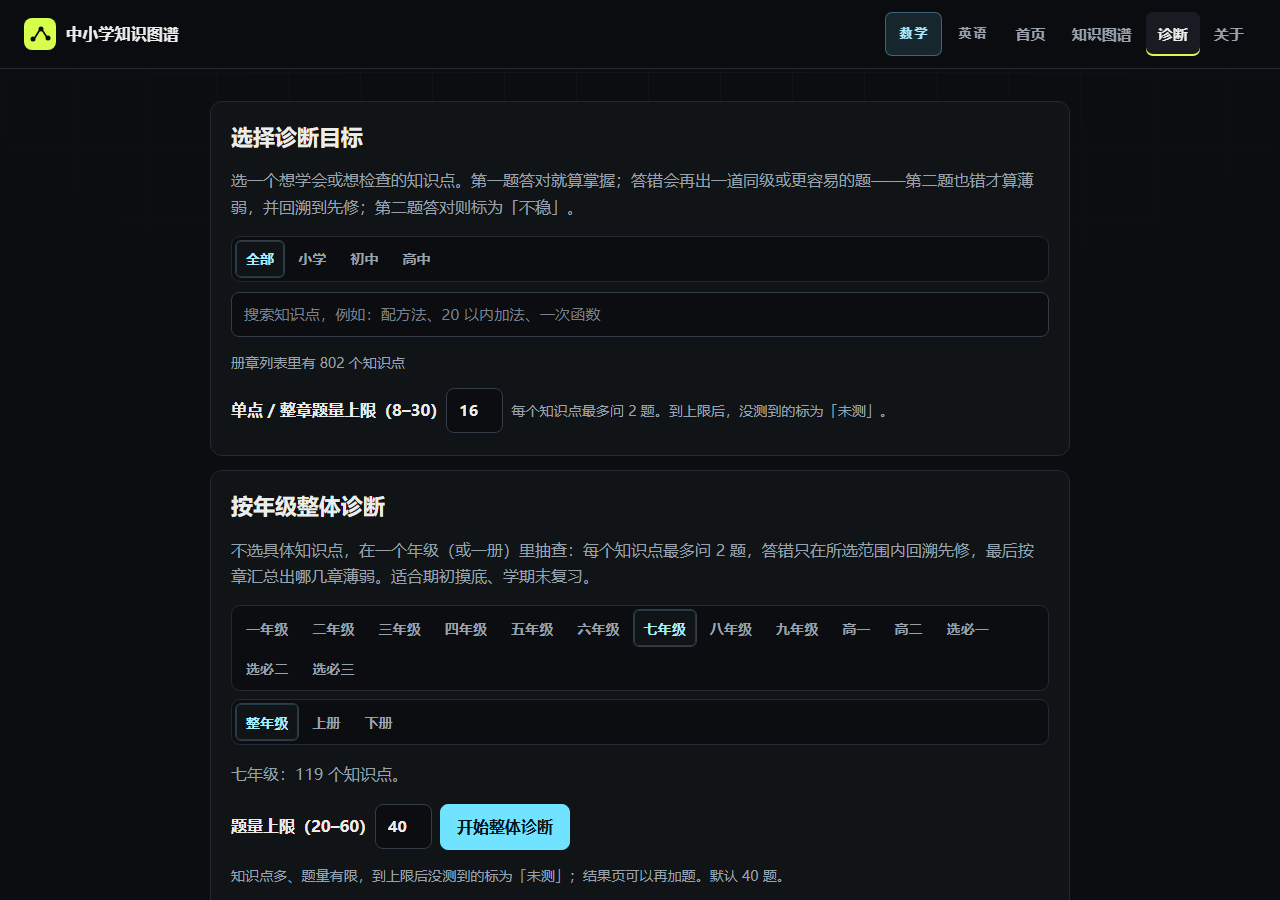
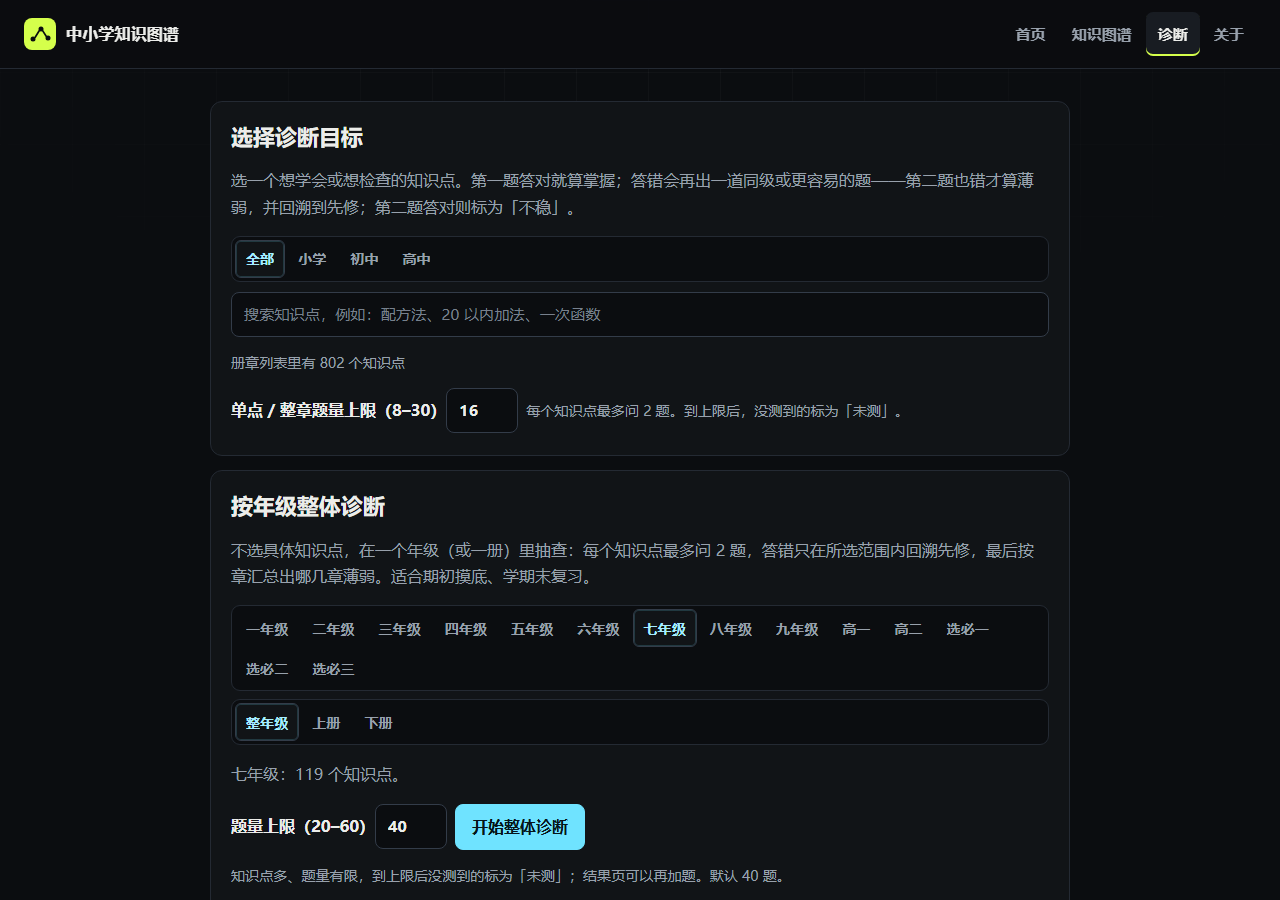
导航改为一级/二级结构，诊断页学段联动，移除页脚
- 导航一级只留 首页 / 知识图谱 / 诊断 / 关于；数学、英语收进「知识图谱」的悬停下拉（也从键盘 focus 展开）
- 诊断页「按年级整体诊断」的年级标签随学段收窄：小学 1–6、初中 7–9、高中 10+（英语为 3–6 / 7–9 / 必修一~选必四）
- 学段切换后原年级不在范围内时回落到该学段第一个年级，并把范围重置为「整年级」
- 关于链接指向本仓库；删除三页页脚（AI 初稿声明与 Issue 入口），内容区获得更多高度
- 移除失去引用的 .site-footer 样式与 explore/diagnose 的页脚布局规则

Changed region(s): [[0.4062, 0.4356, 0.6875, 0.4667], [0.3438, 0.8711, 0.4688, 0.9644], [0.6875, 0.0, 0.7812, 0.0622]]

diff --git a/diagnose/app.js b/diagnose/app.js
@@ -382,10 +382,36 @@
     return gradeSel + (volSel ? volSel : '年级');
   }
 
+  // 「学段」筛选后，整体诊断里可选的年级也要跟着变
+  function gradeOptions() {
+    const primary = (subject === 'english' ? '三四五六' : '一二三四五六').split('').map(function (x) { return [x, x + '年级']; });
+    const junior = '七八九'.split('').map(function (x) { return [x, x + '年级']; });
+    const senior = subject === 'english'
+      ? [['必修一', '必修一'], ['必修二', '必修二'], ['必修三', '必修三'],
+         ['选必一', '选必一'], ['选必二', '选必二'], ['选必三', '选必三'], ['选必四', '选必四']]
+      : [['高一', '高一'], ['高二', '高二'], ['选必一', '选必一'], ['选必二', '选必二'], ['选必三', '选必三']];
+    let out = [];
+    if (!startStage || startStage === 'p') out = out.concat(primary);
+    if (!startStage || startStage === 'j') out = out.concat(junior);
+    if (!startStage || startStage === 'h') out = out.concat(senior);
+    return out;
+  }
+
   function gradeCard() {
     const box = h('div', { class: 'card', id: 'grade-card' });
     const fill = function () {
       while (box.firstChild) box.removeChild(box.firstChild);
+      // 学段变了之后，原来选中的年级可能不在范围内，回落到该学段的第一个年级
+      const options = gradeOptions();
+      const stillValid = options.some(function (o) { return o[0] === gradeSel; });
+      if (!stillValid) {
+        gradeSel = options.length ? options[0][0] : '';
+        volSel = (subject === 'english' && gradeSel === '九') ? '全' : '';
+      }
+      // 年级是「高中」类（高一/高二/必修X/选必X）时，范围只能是整册
+      if (seniorGrade(gradeSel)) volSel = '';
+      else if (subject === 'english' && gradeSel === '九') volSel = '全';
+      else if (volSel === '全') volSel = '';
       const g = E.gradeTargets(D.graph, gradeScope(), subject);
       const tabs = function (label, items, current, set) {
         return h('div', { class: 'stage-tabs', role: 'tablist', 'aria-label': label }, items.map(function (it) {
@@ -409,14 +435,7 @@
       box.append(
         h('h2', { text: '按年级整体诊断' }),
         h('p', { class: 'muted' }, '不选具体知识点，在一个年级（或一册）里抽查：每个知识点最多问 2 题，答错只在所选范围内回溯先修，最后按章汇总出哪几章薄弱。适合期初摸底、学期末复习。'),
-        tabs('年级', subject === 'english'
-          ? '三四五六七八九'.split('').map(function (x) { return [x, x + '年级']; }).concat([
-            ['必修一', '必修一'], ['必修二', '必修二'], ['必修三', '必修三'],
-            ['选必一', '选必一'], ['选必二', '选必二'], ['选必三', '选必三'], ['选必四', '选必四']
-          ])
-          : GRADES.map(function (x) { return [x, x + '年级']; }).concat([
-            ['高一', '高一'], ['高二', '高二'], ['选必一', '选必一'], ['选必二', '选必二'], ['选必三', '选必三']
-          ]), gradeSel, function (v) {
+        tabs('年级', options, gradeSel, function (v) {
           gradeSel = v;
           if (seniorGrade(v)) volSel = '';
           else if (subject === 'english' && v === '九') volSel = '全';

diff --git a/assets/site.css b/assets/site.css
@@ -268,6 +268,42 @@ html.is-leaving body { opacity: 0; transition: opacity 160ms cubic-bezier(0.4, 0
 
 .nav-link:hover { background: var(--bg-muted); color: var(--text); }
 
+/* 「知识图谱」带学科二级菜单：鼠标悬停或键盘聚焦时展开 */
+.nav-item { position: relative; display: inline-flex; align-items: center; }
+.nav-item .nav-menu {
+  position: absolute;
+  top: calc(100% + 6px);
+  left: 50%;
+  transform: translateX(-50%) translateY(-4px);
+  min-width: 132px;
+  padding: 6px;
+  display: flex;
+  flex-direction: column;
+  gap: 2px;
+  background: var(--bg-elev);
+  border: 1px solid var(--line-strong);
+  border-radius: 10px;
+  box-shadow: 0 12px 32px rgba(0, 0, 0, 0.45);
+  opacity: 0;
+  visibility: hidden;
+  pointer-events: none;
+  transition: opacity var(--dur) var(--ease-out), transform var(--dur) var(--ease-out), visibility var(--dur);
+  z-index: 60;
+}
+.nav-item.has-menu:hover .nav-menu,
+.nav-item.has-menu:focus-within .nav-menu {
+  opacity: 1;
+  visibility: visible;
+  pointer-events: auto;
+  transform: translateX(-50%) translateY(0);
+}
+.nav-item .nav-menu .nav-link { width: 100%; justify-content: flex-start; min-height: 40px; }
+.nav-item .nav-menu .nav-link.on {
+  background: var(--bg-muted);
+  color: var(--text);
+  box-shadow: inset 0 0 0 1px var(--line-strong);
+}
+
 .nav-link.active,
 .nav-link[aria-current="page"] {
   background: var(--bg-muted);
@@ -297,29 +333,6 @@ body.subject-english .legend li:has(.sw-h) { display: none; }
   .site-header { padding: 10px 16px; gap: 4px 12px; }
   .site-nav { flex: 1 1 100%; margin-left: 0; }
   .nav-link { min-height: 44px; padding: 4px 10px; }
-}
-
-.site-footer {
-  padding: 20px 24px 28px;
-  text-align: center;
-  color: var(--muted);
-  font-size: 0.86rem;
-  border-top: 1px solid var(--line);
-  max-width: 100%;
-}
-
-.site-footer p { margin: 0; overflow-wrap: anywhere; }
-.site-footer a { color: var(--brand-strong); font-weight: 600; text-decoration: none; border-bottom: 1px solid rgba(166, 237, 255, 0.3); position: relative; }
-.site-footer a:hover { border-color: var(--brand-strong); }
-/* 行内链接不改变排版，用伪元素把可点区域扩到 44px */
-.site-footer a::after {
-  content: "";
-  position: absolute;
-  left: -4px;
-  right: -4px;
-  top: 50%;
-  height: 44px;
-  transform: translateY(-50%);
 }
 
 /* ---------------- 按钮 ---------------- */

diff --git a/explore/index.html b/explore/index.html
@@ -15,12 +15,16 @@
     <span class="brand-name">中小学知识图谱</span>
   </a>
   <nav class="site-nav" aria-label="主导航">
-    <a class="nav-link subject-link on" data-subject="math" href="./">数学</a>
-    <a class="nav-link subject-link" data-subject="english" href="./?subject=english">英语</a>
     <a class="nav-link" href="../">首页</a>
-    <a class="nav-link back active" href="./" aria-current="page">知识图谱</a>
+    <div class="nav-item has-menu">
+      <a class="nav-link back active" href="./" aria-current="page">知识图谱</a>
+      <div class="nav-menu" role="menu" aria-label="知识图谱学科">
+        <a class="nav-link subject-link on" data-subject="math" role="menuitem" href="./">数学</a>
+        <a class="nav-link subject-link" data-subject="english" role="menuitem" href="./?subject=english">英语</a>
+      </div>
+    </div>
     <a class="nav-link" href="../diagnose/">诊断</a>
-    <a class="nav-link" href="https://github.com/xiaoyang111222/cn-math-taxonomy" target="_blank" rel="noopener noreferrer">关于</a>
+    <a class="nav-link" href="https://github.com/zhujiuyi/jiaocaitupu" target="_blank" rel="noopener noreferrer">关于</a>
   </nav>
 </header>
 <div class="explore">
@@ -88,9 +92,6 @@
   </section>
   <aside id="detail" class="detail"><p class="muted">正在加载…</p></aside>
 </div>
-<footer class="site-footer">
-  <p>AI 生成初稿，未经教师审核。<a href="https://github.com/xiaoyang111222/cn-math-taxonomy/issues/new/choose">提交 Issue</a></p>
-</footer>
 <script src="../assets/vendor/cytoscape.min.js"></script>
 <script src="../assets/vendor/dagre.min.js"></script>
 <script src="../assets/vendor/cytoscape-dagre.js"></script>

diff --git a/diagnose/index.html b/diagnose/index.html
@@ -15,18 +15,19 @@
     <span class="brand-name">中小学知识图谱</span>
   </a>
   <nav class="site-nav" aria-label="主导航">
-    <a class="nav-link subject-link on" data-subject="math" href="./">数学</a>
-    <a class="nav-link subject-link" data-subject="english" href="./?subject=english">英语</a>
     <a class="nav-link" href="../">首页</a>
-    <a class="nav-link back" href="../explore/">知识图谱</a>
+    <div class="nav-item has-menu">
+      <a class="nav-link back" href="../explore/">知识图谱</a>
+      <div class="nav-menu" role="menu" aria-label="知识图谱学科">
+        <a class="nav-link subject-link on" data-subject="math" role="menuitem" href="../explore/">数学</a>
+        <a class="nav-link subject-link" data-subject="english" role="menuitem" href="../explore/?subject=english">英语</a>
+      </div>
+    </div>
     <a class="nav-link active" href="./" aria-current="page">诊断</a>
-    <a class="nav-link" href="https://github.com/xiaoyang111222/cn-math-taxonomy" target="_blank" rel="noopener noreferrer">关于</a>
+    <a class="nav-link" href="https://github.com/zhujiuyi/jiaocaitupu" target="_blank" rel="noopener noreferrer">关于</a>
   </nav>
 </header>
 <main id="root"><p class="loading">加载数据中……</p></main>
-<footer class="site-footer">
-  <p>AI 生成初稿，未经教师审核。<a href="https://github.com/xiaoyang111222/cn-math-taxonomy/issues/new/choose">提交 Issue</a></p>
-</footer>
 <script src="../assets/vendor/cytoscape.min.js"></script>
 <script src="../assets/vendor/dagre.min.js"></script>
 <script src="../assets/vendor/cytoscape-dagre.js"></script>

diff --git a/index.html b/index.html
@@ -28,12 +28,16 @@
     <span class="brand-name">中小学知识图谱</span>
   </a>
   <nav class="site-nav" aria-label="主导航">
-    <a class="nav-link subject-link on" data-subject="math" href="./">数学</a>
-    <a class="nav-link subject-link" data-subject="english" href="./?subject=english">英语</a>
     <a class="nav-link active" href="./" aria-current="page">首页</a>
-    <a class="nav-link" href="explore/">知识图谱</a>
+    <div class="nav-item has-menu">
+      <a class="nav-link" href="explore/">知识图谱</a>
+      <div class="nav-menu" role="menu" aria-label="知识图谱学科">
+        <a class="nav-link subject-link on" data-subject="math" role="menuitem" href="explore/">数学</a>
+        <a class="nav-link subject-link" data-subject="english" role="menuitem" href="explore/?subject=english">英语</a>
+      </div>
+    </div>
     <a class="nav-link" href="diagnose/">诊断</a>
-    <a class="nav-link" href="https://github.com/xiaoyang111222/cn-math-taxonomy" target="_blank" rel="noopener noreferrer">关于</a>
+    <a class="nav-link" href="https://github.com/zhujiuyi/jiaocaitupu" target="_blank" rel="noopener noreferrer">关于</a>
   </nav>
 </header>
 <main class="home">
@@ -104,9 +108,6 @@
     <span class="iq-note">趣味测评，与数学诊断无关</span>
   </a>
 </main>
-<footer class="site-footer">
-  <p>AI 生成初稿，未经教师审核。<a href="https://github.com/xiaoyang111222/cn-math-taxonomy/issues/new/choose">提交 Issue</a></p>
-</footer>
 <script src="assets/motion.js"></script>
 <script src="assets/home.js"></script>
 </body>

diff --git a/diagnose/style.css b/diagnose/style.css
@@ -1,16 +1,14 @@
 /* 诊断页布局。配色、字号和导航来自 assets/site.css。
    石墨深色仪表台：平面容器、发丝线分隔、选项按钮 52px。 */
 
-/* 内容不足一屏时把页脚压到底部 */
+/* 内容不足一屏时让 main 撑满剩余高度（页脚已移除） */
 body {
   min-height: 100dvh;
   display: flex;
   flex-direction: column;
 }
 
-.site-header,
-.site-footer { flex: none; }
-.site-footer { margin-top: auto; }
+.site-header { flex: none; }
 
 main#root {
   flex: 1 0 auto;

diff --git a/assets/home.js b/assets/home.js
@@ -14,6 +14,7 @@
   }
 
   document.body.classList.toggle('subject-english', subject === 'english');
+  // 学科是「知识图谱」的二级菜单：只切二级项的选中态；一级菜单链接跟随当前学科
   document.querySelectorAll('.subject-link').forEach(function (link) {
     var on = link.getAttribute('data-subject') === subject;
     link.classList.toggle('on', on);

diff --git a/assets/explore.css b/assets/explore.css
@@ -8,8 +8,7 @@ body.page-explore {
   overflow: hidden;
 }
 
-body.page-explore .site-header,
-body.page-explore .site-footer { flex: none; }
+body.page-explore .site-header { flex: none; }
 
 .explore {
   flex: 1;
